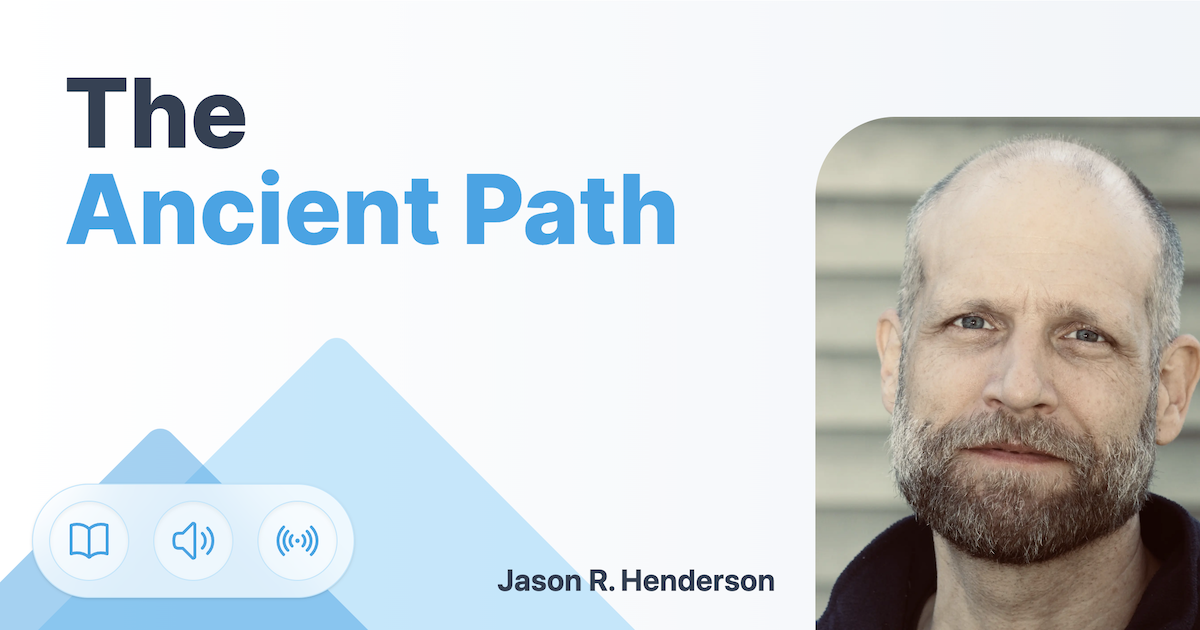
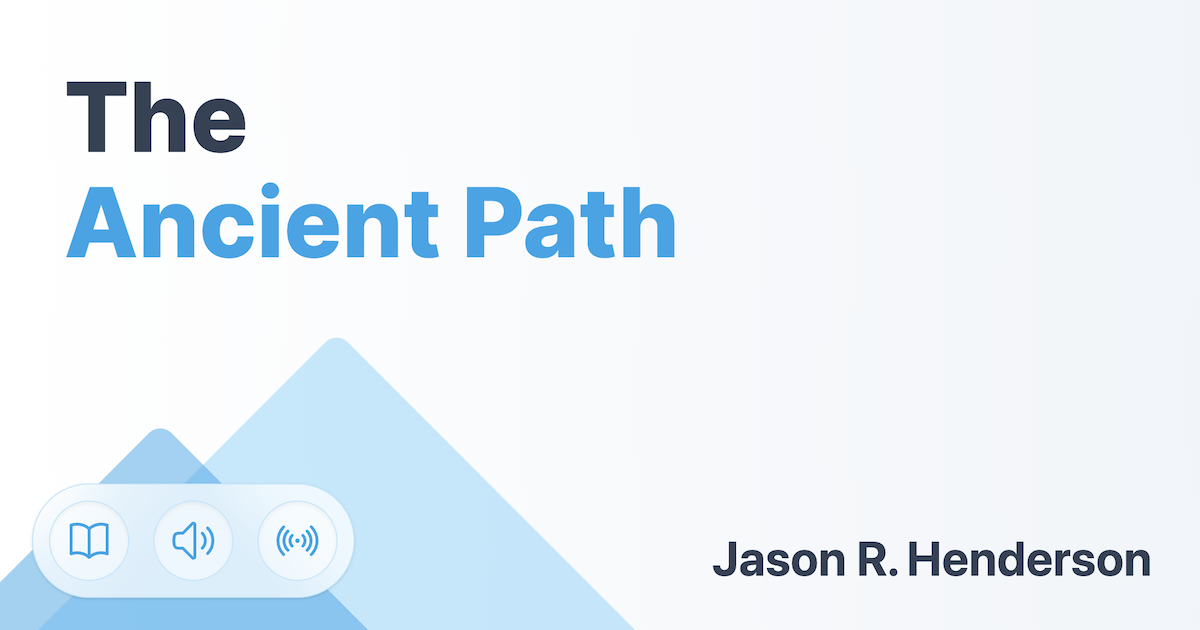
removed jason's picture from og image

diff --git a/components/OGImage.tsx b/components/OGImage.tsx
@@ -1,6 +1,4 @@
 import React from 'react';
-import Image from 'next/image';
-import ProfileImg from '../public/profile.jpg';
 import { BookOpenIcon, SpeakerWaveIcon } from '@heroicons/react/24/outline';
 import { SignalIcon } from '@heroicons/react/24/solid';
 
@@ -10,9 +8,9 @@ const OGImage: React.FC = () => {
       <div className="w-128 h-128 bg-sky-300 dark:bg-sky-400 rounded-2xl absolute left-20 -bottom-80 rotate-45 bg-opacity-20 dark:bg-opacity-5 sm:dark:bg-opacity-10 sm:bg-opacity-50"></div>
       <div className="w-96 h-96 bg-sky-500 rounded-2xl absolute -left-8 -bottom-64 rotate-45 bg-opacity-20 dark:bg-opacity-5 sm:dark:bg-opacity-10 sm:bg-opacity-50"></div>
       <h1 className="font-inter text-8xl p-16 relative leading-[105px]">
-        <span className="text-slate-700">La Senda</span>
+        <span className="text-slate-700">The</span>
         <br />
-        <span className="text-sky-500">Antigua</span>
+        <span className="text-sky-500">Ancient Path</span>
       </h1>
       <div className="flex flex-row items-center gap-6 py-4 px-4 bg-white/70 backdrop-blur-xl rounded-full absolute left-8 bottom-8 w-fit shadow border border-sky-200">
         <div className="flex justify-center items-center gap-2 bg-white/50 border border-sky-200 shadow-inner w-20 h-20 rounded-full">
@@ -25,12 +23,7 @@ const OGImage: React.FC = () => {
           <SignalIcon className="h-12 text-sky-500" />
         </div>
       </div>
-      <Image
-        src={ProfileImg}
-        alt={'Jason R. Henderson'}
-        className="w-96 h-128 object-cover rounded-tl-[80px] absolute right-0 bottom-0"
-      />
-      <span className="absolute bottom-8 right-[424px] text-3xl font-bold text-slate-700">
+      <span className="absolute bottom-12 right-12 text-5xl font-bold text-slate-700">
         Jason R. Henderson
       </span>
     </div>
